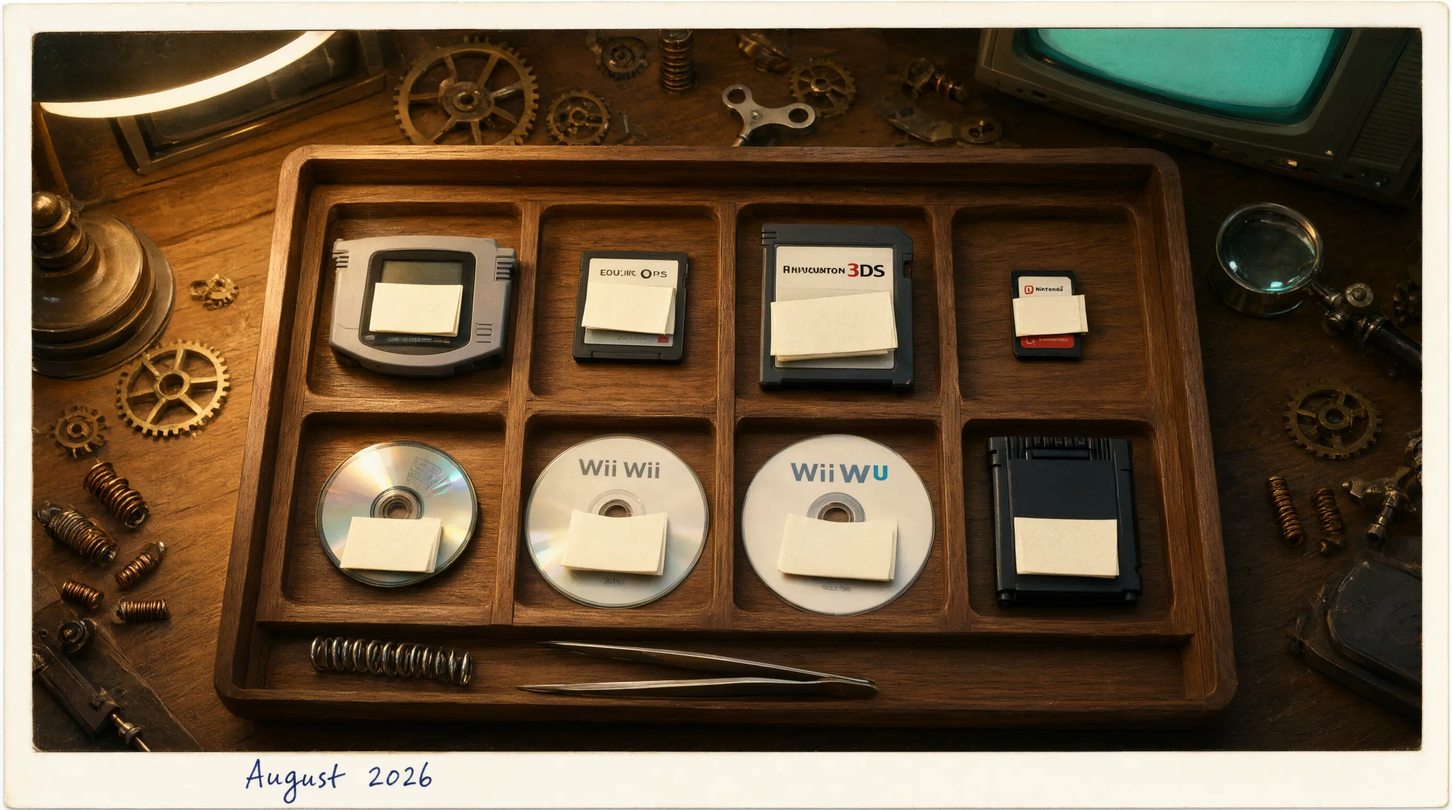
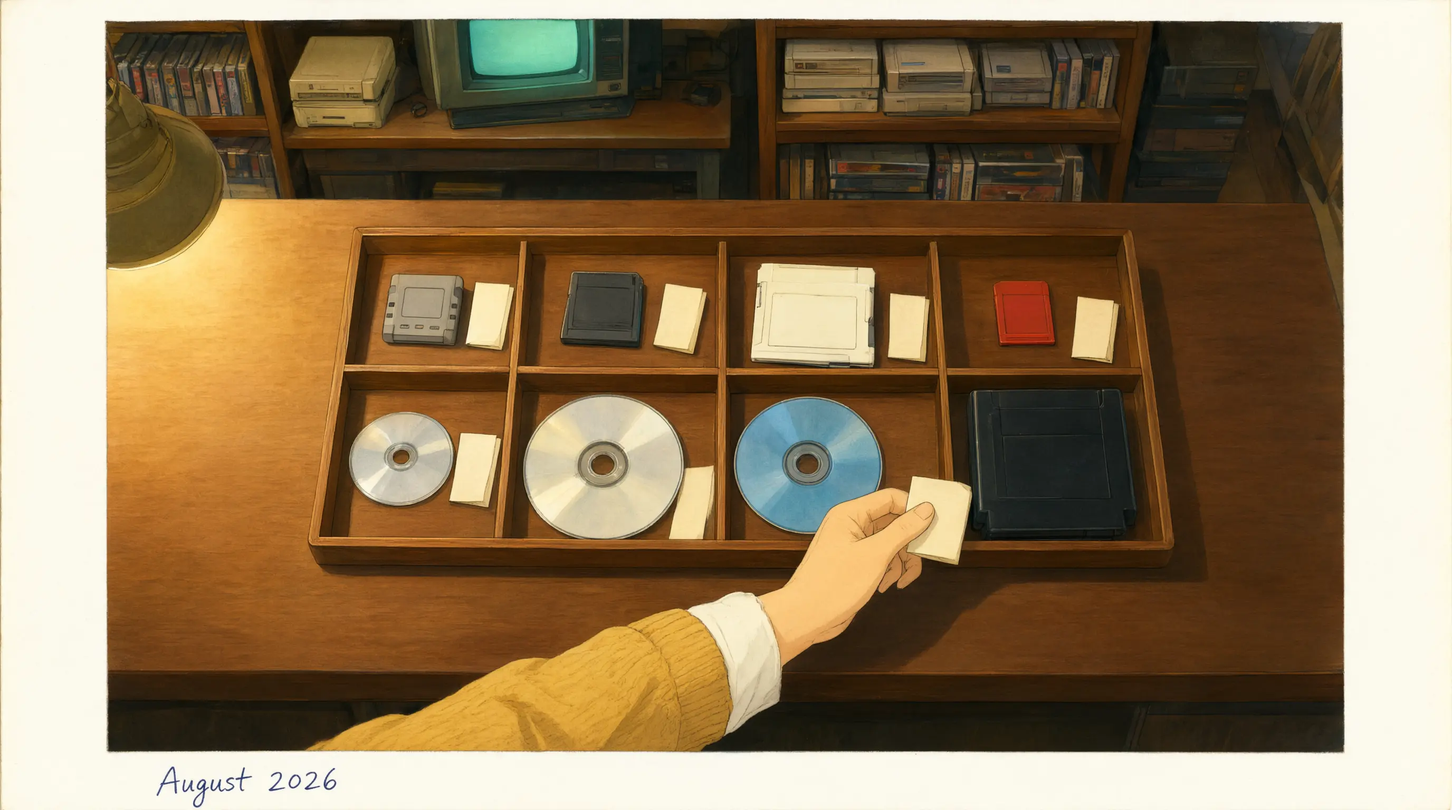
entry3

diff --git a/i18n/ru/docusaurus-plugin-content-blog/2026-08-30-entry-3-tests-head-for-consoles/index.md b/i18n/ru/docusaurus-plugin-content-blog/2026-08-30-entry-3-tests-head-for-consoles/index.md
@@ -5,14 +5,14 @@ authors: [dmitry]
 tags: [cpp, ci, cmake, testing, platforms, gba, md, gamecube]
 date: 2026-08-30
 description: >
-  Третья запись журнала мастерской. У движка появился свой раннер тестов,
-  тестовый ROM впервые прошёл под эмулятором GBA, а консольный сэмпл
-  собрался на восьми приставках.
+  Третья запись журнала ретро-лавки. У движка появился свой раннер тестов,
+  тестовый ROM впервые отработал под эмулятором GBA, а консольный сэмпл
+  собрался под восемь приставок.
 image: /img/blog/2026-08-30-1.webp
 sidebar_position: 1
 ---
 
-За две недели я снял с полки восемь приставок, по одной на пул-реквест. Я пишу движок ToyGine2 для небольших игр, которые должны запускаться и на современных машинах, и на приставках с этой полки. В этом цикле у движка появился свой раннер тестов, а у каждой из восьми приставок — собранный в CI образ.
+За две недели я снял с полки восемь приставок, по одной на пул-реквест. Я пишу ToyGine2, движок для небольших игр, которые должны запускаться и на современных машинах, и на ретро-технике. В этом цикле у движка появился свой раннер тестов, а у каждой из восьми приставок — собранный в CI образ.
 
 <!-- truncate -->
 
@@ -20,22 +20,21 @@ sidebar_position: 1
 
 ## Коротко {#short}
 
-Движок получил собственный раннер тестов. Он собирается там, где doctest не может, и выносит тот же вердикт. На десктопе тесты собираются под обоими раннерами сразу, а на GBA тестовый ROM гоняется в CI под mGBA. Консольный сэмпл собирается на восьми приставках, и для каждой в пул-реквесте лежит свой образ. Всё это вошло в версию 26.18.0: [релиз на GitHub](https://github.com/ToymanInteractive/toygine2/releases/tag/26.18.0).
+Движок получил собственный раннер тестов. Он собирается там, где doctest не может, и выносит тот же вердикт. На десктопе тесты собираются под обоими раннерами сразу, а на GBA тестовый ROM гоняется в CI под mGBA. Консольный сэмпл собирается под восемь приставок, и для каждой в пул-реквесте есть свой образ. Всё это вошло в версию 26.18.0. [Релиз лежит на GitHub](https://github.com/ToymanInteractive/toygine2/releases/tag/26.18.0).
 
-- Артефакты закрытого пул-реквеста удаляются сразу, а не через семь дней хранения. Имя ветки вида `main&event=push` больше не подменяет параметры запроса к API.
-- Появился Docker-образ тулчейна Wii U. CI теперь сверяет тег базового образа в `FROM` с меткой образа: Dependabot поднял тег в `Dockerfile.gba`, а метку не тронул.
+- Артефакты закрытого пул-реквеста удаляются сразу, а не через семь дней хранения.
+- Появился Docker-образ тулчейна Wii U. CI теперь сверяет тег базового образа в `FROM` с меткой образа: Dependabot поднял тег в `Dockerfile.gba`, а метку не тронул.
 - Wii U не появлялась в списке платформ: модуль поиска отдавал `DEVKITPRO_WIIU_FOUND`, а проверка ждала `DEVKITPRO_WII_U_FOUND`.
-- Почти каждый пул-реквест приносил по флагу MSVC: `/GF`, `/GL`, `/GR-`, `/GS`, `/guard:cf`, `/Gw`, `/Gy`, `/RTC1` и ещё несколько.
-- В CI стоит clang-format 23, и он больше не выносит «свой» заголовок над стандартными.
-- Скрипт в CI ловит тесты модулей, которые лезут во внутренности раннера.
+- Почти каждый пул-реквест приносил по флагу MSVC, от `/GF` до `/RTC1`.
+- Скрипт в CI ловит модульные тесты, которые лезут во внутренности раннера.
 
 ## Свой раннер тестов {#runner}
 
-На десктопе модульные тесты движка гоняет doctest. На приставках тестового бинаря не было совсем: тестовые файлы под их тулчейнами даже не компилировались, и `static_assert` в них молчали.
+На десктопе модульные тесты движка гоняет doctest. На приставках тестового бинаря не было совсем: тестовые файлы под их тулчейнами даже не компилировались, и `static_assert` в них молчали.
 
-Сначала я проверил, нельзя ли обойтись doctest. Под devkitARM для GBA и 3DS он собрался и слинковался в ROM. Под ClownMDSDK для Mega Drive не собрался: это freestanding-окружение, без `<signal.h>`, `<ctime>` и прочего, на что doctest рассчитывает. Формально свой раннер был нужен одной Mega Drive, но я стал писать его для всех приставок. Иначе каждое изменение в тестах начиналось бы с вопроса, какой раннер стоит на какой платформе. Ограничения задала самая узкая цель: ни одной аллокации в куче и из стандартной библиотеки только шесть заголовков, которые есть в ClownMDSDK.
+Сначала я проверил, нельзя ли обойтись doctest. Под devkitARM для GBA и 3DS он собрался и слинковался в ROM. Под ClownMDSDK для Mega Drive не собрался: это freestanding-окружение, без `<signal.h>`, `<ctime>` и прочего, на что doctest рассчитывает. Формально свой раннер был нужен одной Mega Drive, но я стал писать его для всех приставок, иначе каждое изменение в тестах начиналось бы с вопроса, какой раннер стоит на какой платформе. Ограничения задала самая узкая цель: ни одной аллокации в куче и только шесть заголовков стандартной библиотеки, которые есть в ClownMDSDK.
 
-Главное правило раннера — один и тот же тест даёт одинаковый вердикт под doctest и под своим раннером. На этом правиле я споткнулся почти сразу. Сравнение с допуском `Approx` я написал по памяти, и ревью нашло расхождение с исходником doctest 2.5.3:
+Главное правило раннера: один и тот же тест даёт одинаковый вердикт под doctest и под встроенным раннером. Об это правило я споткнулся почти сразу. Сравнение с допуском `Approx` я написал по памяти, и ревью нашло расхождение с исходником doctest 2.5.3:
 
 ```cpp
 // было
@@ -46,41 +45,32 @@ difference < epsilon * (1 + larger)
 
 Формулы похожи, но около единицы при разнице в полтора эпсилона doctest говорит «равно», а моя говорила «нет». Ни один существующий тест вердикт не поменял, так что расхождение дожило бы до первого теста у самого порога. Теперь формулу сторожит проверка на этапе компиляции.
 
-Ревью предлагало и другое: считать всё в `double`, как doctest. Это я отклонил после замера. У Mega Drive процессор 68000 без FPU, и одно сравнение двух `float` выросло бы со 168 до 248 байт кода. Платила бы ровно та приставка, ради которой раннер и писался, поэтому узкое расхождение в точности я не устранил, а описал в документации.
+Ревью предлагало и другое: считать всё в `double`, как doctest. Это я отклонил после замера. У Mega Drive процессор 68000 без FPU, и код одного сравнения двух `float` вырос бы со 168 до 248 байт. Платила бы ровно та приставка, ради которой раннер и писался, поэтому узкое расхождение в точности я описал в документации, а не устранил.
 
-Чтобы правило не держалось на честном слове, на десктопе один и тот же набор тестов собирается дважды: целью `toygine-units` под doctest и целью `toygine-units-builtin` под своим раннером. На первом переведённом файле встроенный раннер отчитался `1..7` и `passed=18`, doctest — `test cases: 7 | assertions: 18`. Подмена `0xFF` на `0xFE` в одной проверке уронила обе цели. Так проверяют новую шестерню взамен старой: насаживают обе на одну ось и смотрят, совпадают ли зубья.
-
-```mermaid
-flowchart LR
-  T["bitwise_enum.test.cpp"] --> S["toy_test.hpp"]
-  S --> D["toygine-units<br/>doctest"]
-  S --> B["toygine-units-builtin<br/>свой раннер"]
-  D --> V{"вердикты<br/>совпали?"}
-  B --> V
-```
+Чтобы правило не держалось на честном слове, на десктопе один и тот же набор тестов собирается дважды: целью `toygine-units` под doctest и целью `toygine-units-builtin` под встроенным раннером. На первом переведённом файле встроенный раннер отчитался `1..7` и `passed=18`, doctest — `test cases: 7 | assertions: 18`. Подмена `0xFF` на `0xFE` в одной проверке уронила обе цели.
 
 <details>
 <summary>Тест субкейсов, который дважды проходил с багом</summary>
 
-Кейс `each_subcase_runs_exactly_once` проверяет, что раннер заходит в каждый субкейс ровно один раз. Я переписывал его трижды. Первая форма держалась на глобальных счётчиках, а две следующие проходили с подсаженным багом. Вторая сверяла счётчики контекста, и раннер, который на всех прогонах входил в первый субкейс, давал те же цифры. Третья запоминала за прогон только последнее имя субкейса, и прогон, зашедший в первый и во второй субкейс, выглядел как зашедший только во второй. Сработала четвёртая: на каждый прогон заводится запись с именем и счётчиком входов.
+Кейс `each_subcase_runs_exactly_once` проверяет, что раннер заходит в каждый субкейс ровно один раз. Я переписывал его трижды. Первая форма держалась на глобальных счётчиках, а две следующие проходили с подсаженным багом: вторая сверяла счётчики контекста, третья запоминала за прогон только последнее имя субкейса. Сработала четвёртая: на каждый прогон заводится запись с именем и счётчиком входов.
 
 </details>
 
-Зелёный прогон ничего не говорит о том, ловит ли тест хоть что-то. Тесты раннера я теперь проверяю подсаженными багами до того, как считать работу законченной. Для того, кто пишет игру на движке, всё сводится к одной строке: тест подключает `toy_test.hpp` вместо doctest, и тот же файл идёт на десктопе и на приставке с одинаковым вердиктом.
+Зелёный прогон ничего не говорит о том, ловит ли тест хоть что-то, поэтому тесты раннера я проверяю подсаженными багами. Для того, кто пишет игру на движке, всё сводится к одной строке: тест подключает `toy_test.hpp` вместо doctest, и тот же файл идёт на десктопе и на приставке с одинаковым вердиктом.
 
-![Старая и новая латунные шестерни на одной оси зуб в зуб под часовой лупой, в стороне стоит Sega Mega Drive](/img/blog/2026-08-30-1.webp)
+![Два ЭЛТ-экрана на ремонтном столе показывают одинаковый узор: один подключён к компьютеру, другой к 16-битной приставке](/img/blog/2026-08-30-1.webp)
 
 ## Тесты доезжают до GBA {#gba}
 
 Когда тесты стали собираться дважды, CI показал странное: локально 64 теста, в CI 57, а встроенный раннер печатал `1..0`, ноль кейсов. Упало при этом только покрытие, с ошибкой `lcov: ERROR: (empty) no valid records found in tracefile`.
 
-Виноват был фильтр в CMake. Файлы самого раннера исключались из тестов модулей регуляркой `/runner/` по абсолютным путям. У меня проект лежит в `/Users/…`, а GitHub выкачивает код в `/home/runner/work/…`, где `/runner/` есть в пути каждого файла. Я воспроизвёл это на копии дерева под таким же путём и перевёл поиск файлов на относительные пути с якорем `^`. Совет со стороны добавить к вызову lcov флаг `--ignore-errors empty` я отклонил: пустой отчёт покрытия был единственным, что заметило пропажу тестов.
+Виноват был фильтр в CMake. Файлы самого раннера исключались из тестов модулей регуляркой `/runner/` по абсолютным путям. У меня проект лежит в `/Users/…`, а GitHub выкачивает код в `/home/runner/work/…`, где `/runner/` есть в пути каждого файла. Я воспроизвёл это на копии дерева под таким же путём и перевёл поиск файлов на относительные пути с якорем `^`. Совет добавить к вызову lcov флаг `--ignore-errors empty` я отклонил: пустой отчёт покрытия был единственным, что заметило пропажу тестов.
 
-Потом тестовый бинарь надо было собрать под приставки, и общий `main` из плана не пережил Mega Drive. Скрипт линковщика картриджа объявляет точку входа `_EntryPoint`. C-рантайма, который вызвал бы `main`, там нет, и бинарь собирался без стартового адреса. Точка входа переехала в платформенные файлы: девять штук в `tests/runner/platforms/`, по одному на платформу. Нужный файл выбирает CMake. На незнакомой платформе конфигурация падает, а не молча собирает десктопный вариант.
+Потом тестовый бинарь надо было собрать под приставки, и общий `main` не пережил Mega Drive. Скрипт линковщика картриджа объявляет точку входа `_EntryPoint`. C-рантайма, который вызвал бы `main`, там нет, и бинарь собирался без стартового адреса. Точка входа переехала в отдельные файлы, по одному на платформу, а нужный выбирает CMake. На незнакомой платформе конфигурация падает, а не молча собирает десктопный вариант.
 
-Первой приставкой, где тесты запустились, стала GBA. Для прогона в CI я успел спроектировать шаг, который собирает `mgba-rom-test` из исходников mGBA. Потом заглянул в образ тулчейна GBA и нашёл там `mgba-headless` — тот же инструмент под другим именем. Шаг я выбросил целиком.
+Первой приставкой, где тесты запустились, стала GBA. Для прогона в CI я успел спроектировать шаг, который собирает `mgba-rom-test` из исходников mGBA. Потом заглянул в образ тулчейна GBA и нашёл там `mgba-headless`, тот же инструмент под другим именем. Шаг я выбросил целиком.
 
-Оставалось научить ROM разговаривать с эмулятором и не сломать его на железе. При старте ROM пишет `0xC0DE` в отладочный регистр по адресу `0x04FFF780`: mGBA отвечает `0x1DEA`, железо молчит. Под эмулятором каждая строка отчёта целиком уходит ещё и в отладочный лог, а на экран в 30 колонок попадает обрезанной. В конце ROM делает системный вызов Stop, `swi 3`, с вердиктом в регистре `r0`, и `mgba-headless -S 3 -R r0` превращает вердикт в код выхода процесса. Вызов пришлось написать на ассемблере: `Stop()` из libgba затирает `r0` по дороге.
+Оставалось научить ROM разговаривать с эмулятором и не сломать его на железе. При старте ROM пишет `0xC0DE` в отладочный регистр по адресу `0x04FFF780`: mGBA отвечает `0x1DEA`, железо молчит. Тем же приёмом программа на Спектруме узнаёт, подключён ли джойстик Kempston: читает его порт, и интерфейс отвечает осмысленным байтом, а без него с шины приходит случайное значение. Под эмулятором каждая строка отчёта уходит ещё и в отладочный лог целиком, а на экран в 30 колонок попадает обрезанной. В конце ROM делает системный вызов Stop, `swi 3`, с вердиктом в регистре `r0`, и `mgba-headless -S 3 -R r0` превращает вердикт в код выхода процесса. Вызов пришлось написать на ассемблере: `Stop()` из libgba затирает `r0` по дороге.
 
 ```cpp
 asm volatile("mov r0, %0\n\tswi 3" : : "r"(code) : "r0", "r1", "r2", "r3", "memory");
@@ -88,34 +78,34 @@ asm volatile("mov r0, %0\n\tswi 3" : : "r"(code) : "r0", "r1", "r2", "r3", "memo
 
 Запуск я отдал CTest, а не шагу CI, поэтому шаг `Unit testing` одинаков для всех платформ. Зелёный прогон — десять строк отчёта и код 0. Сломанная проверка даёт `not ok 7` с файлом, строкой и выражением, а код выхода — 1.
 
-Сигнал тревоги бывает единственным свидетелем, и прежде чем его глушить, стоит понять, о чём он: пустой отчёт lcov выглядел как поломка покрытия, а был поломкой сборки тестов. Для того, кто пишет игру, это значит вот что: каждый пул-реквест прогоняет тесты движка на эмулированной GBA, а тот же ROM на флеш-картридже покажет отчёт на экране приставки.
+Пустой отчёт lcov выглядел как поломка покрытия, а был поломкой сборки тестов. Прежде чем глушить такой сигнал, стоит понять, о чём он. Для того, кто пишет игру, это значит, что каждый пул-реквест прогоняет тесты движка на эмулированной GBA, а тот же ROM на флеш-картридже покажет отчёт на экране приставки.
 
-![Game Boy Advance с десятью обрезанными строками на экране, рядом бумажная лента с теми же строками целиком](/img/blog/2026-08-30-2.webp)
+![32-битная портативная приставка с обрезанными строками на экране, а рядом — бумажная лента с теми же строками целиком](/img/blog/2026-08-30-2.webp)
 
 ## Сэмпл на восьми приставках {#samples}
 
-В начале цикла артефакт в пул-реквесте был только у девяти десктопных сборок: скачал архив, запустил консольный сэмпл. Приставки собирались, но потрогать результат было нельзя. За цикл я снимал с полки по приставке на пул-реквест: GBA, NDS, 3DS, Switch, GameCube, Wii, Wii U и Mega Drive.
+В начале цикла артефакт в пул-реквесте был только у девяти десктопных сборок. Приставки собирались, но потрогать результат было нельзя. За цикл я снимал с полки по приставке на пул-реквест: GBA, NDS, 3DS, Switch, GameCube, Wii, Wii U и Mega Drive.
 
-Сэмпл маленький: он поднимает текстовую консоль SDK, печатает строку и ждёт в главном цикле. Цикл у каждой приставки свой. GBA выходить некуда, и она вечно ждёт кадрового прерывания, а NDS крутится в `pmMainLoop()`, пока система не попросит завершиться. Сборочные ветки зеркальные: функция SDK превращает ELF в образ приставки, а `install` кладёт его в `bin`. На выходе `.gba`, `.nds`, `.3dsx`, `.nro`, `.dol` для GameCube и Wii, `.rpx` для Wii U и `.bin` для Mega Drive.
+Сэмпл маленький: он поднимает текстовую консоль SDK, печатает строку и ждёт в главном цикле. Цикл у каждой приставки свой. GBA выходить некуда, и она вечно ждёт кадрового прерывания, а NDS крутится в `pmMainLoop()`, пока система не попросит завершиться. Функция SDK превращает ELF в образ приставки, а `install` кладёт его в `bin`. На выходе — `.gba`, `.nds`, `.3dsx`, `.nro`, `.dol` для GameCube и Wii, `.rpx` для Wii U и `.bin` для Mega Drive.
 
-Первым всплыл архив в архиве. `actions/upload-artifact` всегда пакует то, что ему дали, а давали ему готовый zip от CPack. Параметр `archive: false` выкладывает файл как есть и берёт имя артефакта из имени файла. Я ожидал, что после этого поле `artifact_id` в матрице станет лишним, а оно стало важнее. Без него CPack называет пакет по системе и процессору, и Xcode arm64 с Ninja arm64 оба становятся `Darwin-arm64`. Два одинаковых имени в одном прогоне роняют загрузку.
+Первым всплыл архив в архиве. `actions/upload-artifact` всегда пакует то, что ему дали, а давали ему готовый zip от CPack. Параметр `archive: false` выкладывает файл как есть и берёт имя артефакта из имени файла. Я ожидал, что поле `artifact_id` в матрице станет лишним, а оно стало важнее. Без него CPack называет пакет по системе и процессору, и у сборок Xcode arm64 и Ninja arm64 одно имя, `Darwin-arm64`. Два одинаковых имени в одном прогоне роняют загрузку.
 
-Вторым был GameCube. Ветку сэмпла я закрыл макросом `__GAMECUBE__`, всё собралось без единого предупреждения, и только ревью заметило, что CMake-тулчейн devkitPro для libogc определяет `__gamecube__` строчными. Это единственная платформа devkitPro с таким регистром. `nm` по ELF это подтвердил: ни `VIDEO_Init`, ни `SYS_MainLoop` в нём не нашлось, а в `.dol` уехала десктопная ветка с `<iostream>`.
+Вторым был GameCube. Ветку сэмпла я закрыл макросом `__GAMECUBE__`, всё собралось без единого предупреждения, и только ревью заметило, что CMake-тулчейн devkitPro для libogc определяет `__gamecube__` строчными. `nm` по ELF это подтвердил: ни `VIDEO_Init`, ни `SYS_MainLoop` в нём не нашлось, а в `.dol` уехала десктопная ветка с `<iostream>`.
 
-Если выбор ветки держится на макросе, сборка без ошибок ничего не говорит о том, какой код в неё попал. Проверка символов заняла минуту, и выбор ветки я теперь проверяю по бинарю, а не по зелёной галочке. Для того, кто хочет запустить движок на своей приставке, в каждом пул-реквесте лежат 17 архивов, из них восемь с образом для приставки. Образ можно открыть в эмуляторе или залить на флеш-картридж.
+Если выбор ветки держится на макросе, сборка без ошибок ничего не говорит о том, какой код в неё попал. Проверка символов заняла минуту, и выбор ветки я теперь сверяю по бинарю. Для того, кто хочет запустить движок на своей приставке, в каждом пул-реквесте лежит 17 архивов, из них 8 с образом для приставки. Образ можно открыть в эмуляторе или залить на флеш-картридж.
 
-![Лоток из восьми ячеек, вид сверху: в каждой носитель своей приставки и одинаковый сложенный листок](/img/blog/2026-08-30-3.webp)
+![Лоток из восьми ячеек на прилавке: в каждой лежит носитель своей приставки, от крошечной карточки до большого чёрного картриджа](/img/blog/2026-08-30-3.webp)
 
 ## Цифры {#numbers}
 
-| Что мерил                                  | Было                         | Стало                                       |
-| ------------------------------------------ | ---------------------------- | ------------------------------------------- |
-| Тесты в десктопном наборе, 22 → 27 августа | 32                           | 64                                          |
-| Тесты в CI с фильтром `/runner/`           | 57, встроенный раннер `1..0` | 64, `1..7`                                  |
-| Проверка отчёта раннера                    | 1,02 с, три отдельных бинаря | 0,06 с, doctest-юнит                        |
-| Сравнение двух `float` на Mega Drive       | 168 байт кода                | 168 байт; вариант с `double` (248) отклонён |
-| Сборки с артефактом в пул-реквесте         | 9                            | 17                                          |
+| Что мерил                                     | Было                                                 | Стало                                            |
+| --------------------------------------------- | ---------------------------------------------------- | ------------------------------------------------ |
+| Тесты в десктопном наборе, с 22 по 27 августа | 32                                                   | 64                                               |
+| Тесты в CI с фильтром `/runner/`              | 57, встроенный раннер `1..0`                         | 64, `1..7`                                       |
+| Прогон набора тестов                          | 1,02 с, отчёт раннера проверяли три отдельных бинаря | 0,06 с, отчёт сверяет один тест под doctest      |
+| Сравнение двух `float` на Mega Drive          | 168 байт кода                                        | 168 байт; вариант с `double` (248 байт) отклонён |
+| Сборки с артефактом в пул-реквесте            | 9                                                    | 17                                               |
 
 ## Что дальше {#next}
 
-На очереди Mega Drive. Точка входа и вывод через отладочный регистр видеочипа у неё уже есть, осталось найти эмулятор, который запустится без окна и вернёт вердикт. За ней пойдут остальные шесть приставок по образцу GBA: ветка в `tests/CMakeLists.txt` и `run_test: "true"` в матрице CI.
+На очереди Mega Drive. Точка входа и вывод через отладочный регистр видеочипа у неё уже есть, осталось найти эмулятор, который запустится без окна и вернёт вердикт. За ней пойдут остальные шесть приставок по образцу GBA: ветка в `tests/CMakeLists.txt` и `run_test: "true"` в матрице CI.

diff --git a/blog/2026-08-30-entry-3-tests-head-for-consoles/index.md b/blog/2026-08-30-entry-3-tests-head-for-consoles/index.md
@@ -5,117 +5,107 @@ authors: [dmitry]
 tags: [cpp, ci, cmake, testing, platforms, gba, md, gamecube]
 date: 2026-08-30
 description: >
-  The third entry in the workshop journal. The engine got a test runner of
-  its own, a test ROM passed under a GBA emulator for the first time, and
-  the console sample now builds for eight consoles.
+  The third entry in the retro shop journal. The engine got its own test
+  runner, a test ROM ran under a GBA emulator for the first time, and the
+  console sample built for eight consoles.
 image: /img/blog/2026-08-30-1.webp
 sidebar_position: 1
 ---
 
-Over two weeks I took eight consoles down from the shelf, one per pull request. I'm writing ToyGine2, an engine for small games that should run on modern machines and on the consoles from that shelf. This cycle the engine got a test runner of its own, and each of the eight consoles got an image built in CI.
+In two weeks I took eight consoles down from the shelf, one per pull request. I'm writing ToyGine2, an engine for small games that should run on modern machines and on retro hardware. This cycle the engine got its own test runner, and each of the eight consoles got an image built in CI.
 
 <!-- truncate -->
 
-[In short](#short) · [A test runner of my own](#runner) · [Tests reach the GBA](#gba) · [One sample, eight consoles](#samples) · [Numbers](#numbers) · [What's next](#next)
+[In short](#short) · [A test runner of my own](#runner) · [Tests make it to the GBA](#gba) · [The sample on eight consoles](#samples) · [Numbers](#numbers) · [What's next](#next)
 
 ## In short {#short}
 
-The engine has its own test runner now. It builds where doctest can't, and it reaches the same verdict. On desktop the tests are built under both runners at once, and on the GBA the test ROM runs in CI under mGBA. The console sample builds for eight consoles, and each one gets its own image on the pull request. All of it went into 26.18.0, and [the release is on GitHub](https://github.com/ToymanInteractive/toygine2/releases/tag/26.18.0).
+The engine got a test runner of its own. It builds where doctest can't and reaches the same verdict. On desktop the tests build under both runners at once, and on the GBA the test ROM runs in CI under mGBA. The console sample builds for eight consoles, and each has its own image in the pull request. All of this went into version 26.18.0, and [the release is on GitHub](https://github.com/ToymanInteractive/toygine2/releases/tag/26.18.0).
 
-- Artifacts of a closed pull request are deleted right away instead of after seven days. A branch named something like `main&event=push` can no longer rewrite the API query parameters.
-- There is a Docker toolchain image for the Wii U. CI now checks that the base image tag in `FROM` matches the image label: Dependabot had bumped the tag in `Dockerfile.gba` and left the label alone.
-- The Wii U never showed up in the platform list. The find module set `DEVKITPRO_WIIU_FOUND`, and the check looked for `DEVKITPRO_WII_U_FOUND`.
-- Almost every pull request added one MSVC flag: `/GF`, `/GL`, `/GR-`, `/GS`, `/guard:cf`, `/Gw`, `/Gy`, `/RTC1` and a few more.
-- CI runs clang-format 23, and it no longer lifts a file's "own" header above the standard ones.
-- A script in CI catches module tests that reach into the runner's internals.
+- Artifacts of a closed pull request are deleted right away instead of after seven days of retention.
+- A Wii U toolchain Docker image appeared. CI now checks the base image tag in `FROM` against the image label: Dependabot had bumped the tag in `Dockerfile.gba` and left the label alone.
+- The Wii U didn't show up in the platform list: the find module set `DEVKITPRO_WIIU_FOUND`, and the check expected `DEVKITPRO_WII_U_FOUND`.
+- Nearly every pull request brought an MSVC flag, from `/GF` to `/RTC1`.
+- A CI script catches module tests that reach into the runner's internals.
 
 ## A test runner of my own {#runner}
 
-On desktop the engine's unit tests run under doctest. On the consoles there was no test binary at all. The test files didn't even compile with their toolchains, so the `static_assert`s in them never fired there.
+On desktop, doctest runs the engine's unit tests. On the consoles there was no test binary at all: the test files didn't even compile under their toolchains, and the `static_assert`s in them never fired.
 
-First I checked whether doctest would do. With devkitARM for the GBA and 3DS it built and linked into a ROM. With ClownMDSDK for the Mega Drive it didn't: that's a freestanding environment, without `<signal.h>`, `<ctime>` and the rest of what doctest expects. Strictly, only the Mega Drive needed a runner of its own, but I wrote it for every console. Otherwise every change to the tests would start with the question of which runner sits on which platform. The narrowest target set the limits: no heap allocations, and from the standard library only the six headers ClownMDSDK has.
+First I checked whether doctest would do. Under devkitARM for the GBA and 3DS it built and linked into a ROM. Under ClownMDSDK for the Mega Drive it didn't: that's a freestanding environment, without `<signal.h>`, `<ctime>` and the rest of what doctest relies on. Strictly speaking only the Mega Drive needed a runner of its own, but I wrote it for all consoles, or else every change to the tests would start with the question of which runner sits on which platform. The narrowest target set the limits: not a single heap allocation, and only the six standard library headers that ClownMDSDK has.
 
-The runner's main rule is that the same test reaches the same verdict under doctest and under it. I tripped over that rule almost at once. I'd written `Approx`, the comparison with a tolerance, from memory, and review found it didn't match the doctest 2.5.3 source:
+The runner's main rule: the same test reaches the same verdict under doctest and under the built-in runner. I tripped over that rule almost at once. I had written the `Approx` tolerance comparison from memory, and a review found it differed from the doctest 2.5.3 source:
 
 ```cpp
 // before
 difference <= epsilon * max(1.0, larger)
-// after, word for word as in doctest
+// after, exactly as in doctest
 difference < epsilon * (1 + larger)
 ```
 
-The two look alike, but near 1.0, at a difference of one and a half epsilons, doctest says "equal" and mine said "not equal". No existing test changed its verdict, so the mismatch would have lived until the first test right at the threshold. A compile-time check now guards the formula.
+The formulas look alike, but near one, with a difference of one and a half epsilons, doctest says "equal" and mine said "no". No existing test changed its verdict, so the mismatch would have lived until the first test right at the threshold. Now a compile-time check guards the formula.
 
-Review also suggested going the other way and computing everything in `double`, as doctest does. I measured it and said no. The Mega Drive's 68000 has no FPU, and a single comparison of two `float`s would grow from 168 to 248 bytes of code. The cost would land on exactly the console the runner was written for, so I left that narrow precision gap in place and documented it.
+The review also suggested computing everything in `double`, as doctest does. I turned that down after measuring. The Mega Drive's 68000 has no FPU, and a single comparison of two `float`s would have grown from 168 to 248 bytes of code. The cost would have landed on exactly the console the runner was written for, so I documented the narrow precision difference instead of removing it.
 
-So the rule doesn't rest on my word, the desktop build compiles the same test set twice: as `toygine-units` under doctest and as `toygine-units-builtin` under my runner. On the first test file I moved over, the built-in runner reported `1..7` and `passed=18`, and doctest reported `test cases: 7 | assertions: 18`. Changing `0xFF` to `0xFE` in one check broke both targets. It's how you test a new gear against the old one: put both on the same arbor and see whether the teeth line up.
-
-```mermaid
-flowchart LR
-  T["bitwise_enum.test.cpp"] --> S["toy_test.hpp"]
-  S --> D["toygine-units<br/>doctest"]
-  S --> B["toygine-units-builtin<br/>own runner"]
-  D --> V{"same<br/>verdict?"}
-  B --> V
-```
+To keep the rule from resting on good faith, the same test set builds twice on desktop: as `toygine-units` under doctest and as `toygine-units-builtin` under the built-in runner. On the first converted file the built-in runner reported `1..7` and `passed=18`, doctest `test cases: 7 | assertions: 18`. Changing `0xFF` to `0xFE` in one check broke both targets.
 
 <details>
-<summary>The subcase test that passed with a bug twice</summary>
+<summary>The subcase test that passed twice with a bug in place</summary>
 
-The case `each_subcase_runs_exactly_once` checks that the runner enters each subcase exactly once. I rewrote it three times. The first version leaned on global counters, and the next two passed with a planted bug. The second compared the context counters, and a runner that entered the first subcase on every pass produced the same numbers. The third kept only the last subcase name per pass, so a pass that entered both the first and the second subcase looked as if it had entered only the second. The fourth version worked: every pass gets a record with a name and an entry count.
+The `each_subcase_runs_exactly_once` case checks that the runner enters every subcase exactly once. I rewrote it three times. The first version relied on global counters, and the next two passed with a planted bug: the second compared the context counters, the third remembered only the last subcase name per run. The fourth worked: every run gets a record with a name and an entry counter.
 
 </details>
 
-A green run tells you nothing about whether a test catches anything. I now check the runner's tests with planted bugs before I call the work done. For someone writing a game on the engine it comes down to one line: a test includes `toy_test.hpp` instead of doctest, and the same file runs on desktop and on a console with the same verdict.
+A green run says nothing about whether a test catches anything, so I check the runner's tests with planted bugs. For someone writing a game on the engine, it all comes down to one line: a test includes `toy_test.hpp` instead of doctest, and the same file runs on desktop and on a console with the same verdict.
 
-![An old and a new brass gear on one arbor, tooth for tooth, under a jeweller's loupe, with a Sega Mega Drive to the side](/img/blog/2026-08-30-1.webp)
+![Two CRT screens on the repair bench show the same pattern, one wired to a desktop computer and the other to a 16-bit console](/img/blog/2026-08-30-1.webp)
 
-## Tests reach the GBA {#gba}
+## Tests make it to the GBA {#gba}
 
-Once the tests were built twice, CI showed something odd. Locally there were 64 tests, in CI there were 57, and the built-in runner printed `1..0`, zero cases. The only thing that failed was coverage, with `lcov: ERROR: (empty) no valid records found in tracefile`.
+Once the tests built twice, CI showed something odd: 64 tests locally, 57 in CI, and the built-in runner printed `1..0`, zero cases. The only thing that failed was coverage, with `lcov: ERROR: (empty) no valid records found in tracefile`.
 
-A CMake filter was to blame. The runner's own files were kept out of the module tests by matching `/runner/` against absolute paths. My checkout lives under `/Users/…`, but GitHub checks the code out into `/home/runner/work/…`, where every file's path contains `/runner/`. I reproduced it on a copy of the tree under the same kind of path and switched the file search to relative paths anchored with `^`. Someone suggested adding lcov's `--ignore-errors empty`. I turned that down: the empty coverage report was the only thing that had noticed the tests were gone.
+A filter in CMake was to blame. The runner's own files were excluded from the module tests by a `/runner/` regex over absolute paths. My project lives under `/Users/…`, while GitHub checks the code out into `/home/runner/work/…`, where `/runner/` is in the path of every file. I reproduced it on a copy of the tree under the same kind of path and switched the file search to relative paths anchored with `^`. I declined the advice to add `--ignore-errors empty` to the lcov call: the empty coverage report was the only thing that noticed the tests had gone missing.
 
-Next the test binary had to build for the consoles, and the plan's shared `main` didn't survive the Mega Drive. The cartridge linker script declares `_EntryPoint` as the entry point, there's no C runtime to call `main`, and the binary came out with no start address. The entry point moved into per-platform files, nine of them in `tests/runner/platforms/`, one per platform. CMake picks the right one, and on a platform it doesn't know, configuration fails instead of silently building the desktop version.
+Then the test binary had to build for the consoles, and the shared `main` didn't survive the Mega Drive. The cartridge linker script declares `_EntryPoint` as the entry point. There's no C runtime there to call `main`, and the binary built without a start address. The entry point moved into separate files, one per platform, and CMake picks the right one. On an unknown platform configuration fails instead of falling back to the desktop variant without a word.
 
-The GBA was the first console where the tests actually ran. For CI I'd already designed a step that builds `mgba-rom-test` from the mGBA sources. Then I looked inside the GBA toolchain image and found `mgba-headless` there, the same tool under another name. I threw the whole step away.
+The GBA was the first console where the tests ran. For the CI run I had already designed a step that builds `mgba-rom-test` from the mGBA sources. Then I looked inside the GBA toolchain image and found `mgba-headless` there, the same tool under another name. I threw the step out entirely.
 
-What remained was teaching the ROM to talk to the emulator without breaking it on hardware. At startup the ROM writes `0xC0DE` to the debug register at `0x04FFF780`: mGBA answers `0x1DEA`, hardware stays silent. Under the emulator every report line also goes to the debug log in full, while the 30-column screen gets it cut short. At the end the ROM makes the Stop system call, `swi 3`, with the verdict in `r0`, and `mgba-headless -S 3 -R r0` turns it into the process exit code. I had to write that call in assembly, because libgba's `Stop()` overwrites `r0` on the way.
+What remained was teaching the ROM to talk to the emulator without breaking it on hardware. At startup the ROM writes `0xC0DE` to the debug register at `0x04FFF780`: mGBA answers `0x1DEA`, and hardware stays silent. A Spectrum program finds out whether a Kempston joystick is attached the same way: it reads the joystick port, the interface answers with a meaningful byte, and without it whatever happens to be on the bus comes back. Under the emulator every report line also goes to the debug log in full, while the 30-column screen gets it cut short. At the end the ROM makes the Stop system call, `swi 3`, with the verdict in register `r0`, and `mgba-headless -S 3 -R r0` turns the verdict into the process exit code. I had to write the call in assembly: `Stop()` from libgba clobbers `r0` on the way.
 
 ```cpp
 asm volatile("mov r0, %0\n\tswi 3" : : "r"(code) : "r0", "r1", "r2", "r3", "memory");
 ```
 
-I gave the run to CTest rather than to a CI step, so the `Unit testing` step is the same on every platform. A green run is ten report lines and exit code 0. A broken check gives `not ok 7` with the file, line and expression, and exit code 1.
+I gave the run to CTest rather than a CI step, so the `Unit testing` step is the same for every platform. A green run is ten report lines and code 0. A broken check gives `not ok 7` with the file, line and expression, and exit code 1.
 
-The empty lcov report looked like broken coverage and was really a broken test build. Had I silenced it, CI would have stayed green while building zero module tests. For someone writing a game, this means every pull request runs the engine's tests on an emulated GBA, and the same ROM on a flash cart shows its report on the console's screen.
+The empty lcov report looked like a coverage failure and was really a test build failure. Before you silence a signal like that, it pays to find out what it's about. For someone writing a game, this means every pull request runs the engine's tests on an emulated GBA, and the same ROM on a flash cartridge will show the report on the console's screen.
 
-![A Game Boy Advance showing ten rows cut off at the screen edge, beside a paper tape carrying the same rows in full](/img/blog/2026-08-30-2.webp)
+![A 32-bit handheld console with truncated lines on its screen, beside it a paper tape carrying the same lines in full](/img/blog/2026-08-30-2.webp)
 
-## One sample, eight consoles {#samples}
+## The sample on eight consoles {#samples}
 
-At the start of the cycle only the nine desktop builds had an artifact on a pull request: download the archive, run the console sample. The consoles built, but there was nothing to hold. Over the cycle I took down one console per pull request: GBA, NDS, 3DS, Switch, GameCube, Wii, Wii U and Mega Drive.
+At the start of the cycle only the nine desktop builds had an artifact in the pull request. The consoles built, but there was nothing to touch. Over the cycle I took one console off the shelf per pull request: GBA, NDS, 3DS, Switch, GameCube, Wii, Wii U and Mega Drive.
 
-The sample is small. It brings up the SDK's text console, prints a line and waits in the main loop. Each console has its own loop. The GBA has nowhere to exit to, so it waits for the vertical blank forever, and the NDS spins in `pmMainLoop()` until the system asks it to quit. The build branches mirror each other: an SDK function turns the ELF into a console image, and `install` puts it in `bin`. Out come `.gba`, `.nds`, `.3dsx`, `.nro`, `.dol` for GameCube and Wii, `.rpx` for the Wii U and `.bin` for the Mega Drive.
+The sample is small: it brings up the SDK's text console, prints a line and waits in the main loop. Each console has its own loop. The GBA has nowhere to exit to, so it waits for the vertical blank interrupt forever, while the NDS spins in `pmMainLoop()` until the system asks it to quit. An SDK function turns the ELF into a console image, and `install` puts it into `bin`. Out come `.gba`, `.nds`, `.3dsx`, `.nro`, `.dol` for the GameCube and Wii, `.rpx` for the Wii U and `.bin` for the Mega Drive.
 
-The first surprise was an archive inside an archive. `actions/upload-artifact` always zips whatever it gets, and it was getting a zip from CPack. The `archive: false` input uploads the file as is and names the artifact after the file. I expected the matrix's `artifact_id` field to become redundant after that, and it became more important instead. Without it CPack names the package after the system and processor, and Xcode arm64 and Ninja arm64 both turn into `Darwin-arm64`. Two identical names in one run break the upload.
+The first surprise was an archive inside an archive. `actions/upload-artifact` always packs what it's given, and it was being given a finished zip from CPack. `archive: false` uploads the file as is and takes the artifact name from the file name. I expected the `artifact_id` field in the matrix to become unnecessary, and it became more important. Without it CPack names the package after the system and processor, and the Xcode arm64 and Ninja arm64 builds get the same name, `Darwin-arm64`. Two identical names in one run break the upload.
 
-The second was the GameCube. I'd guarded the sample's branch with `__GAMECUBE__`, everything built without a single warning, and only review noticed that devkitPro's CMake toolchain for libogc defines `__gamecube__` in lowercase. It's the only devkitPro platform spelled that way. `nm` on the ELF confirmed it: no `VIDEO_Init`, no `SYS_MainLoop`, and the `.dol` had shipped the desktop branch with `<iostream>`.
+The second was the GameCube. I guarded the sample branch with the `__GAMECUBE__` macro, everything built without a single warning, and only the review noticed that devkitPro's CMake toolchain for libogc defines `__gamecube__` in lowercase. `nm` on the ELF confirmed it: neither `VIDEO_Init` nor `SYS_MainLoop` was in there, and the desktop branch with `<iostream>` had gone into the `.dol`.
 
-When a macro picks the branch, a clean build tells you nothing about which code went into it. Checking the symbols took a minute, and I now look in the binary for this kind of thing, because a green tick won't show it. For anyone who wants to see the engine on their own console, every pull request carries 17 archives, eight of them with a console image. You can open it in an emulator or put it on a flash cart.
+When branch selection rests on a macro, a clean build says nothing about which code ended up in it. Checking the symbols took a minute, and I now check branch selection against the binary. For anyone who wants to run the engine on their own console, every pull request carries 17 archives, eight of them with a console image. You can open the image in an emulator or flash it to a cartridge.
 
-![A tray of eight compartments seen from above, each with a different console's game medium and the same folded slip](/img/blog/2026-08-30-3.webp)
+![A tray of eight compartments on the counter, each holding the media of a different console, from a tiny card to a large black cartridge](/img/blog/2026-08-30-3.webp)
 
 ## Numbers {#numbers}
 
-| What I measured                          | Before                          | After                                          |
-| ---------------------------------------- | ------------------------------- | ---------------------------------------------- |
-| Tests in the desktop set, Aug 22 → 27    | 32                              | 64                                             |
-| Tests in CI with the `/runner/` filter   | 57, built-in runner `1..0`      | 64, `1..7`                                     |
-| Checking the runner's report             | 1.02 s, three separate binaries | 0.06 s, one doctest unit                       |
-| Comparing two `float`s on the Mega Drive | 168 bytes of code               | 168 bytes; the `double` version (248) declined |
-| Builds with a pull request artifact      | 9                               | 17                                             |
+| What I measured                            | Before                                                    | After                                                |
+| ------------------------------------------ | --------------------------------------------------------- | ---------------------------------------------------- |
+| Tests in the desktop set, Aug 22 to Aug 27 | 32                                                        | 64                                                   |
+| Tests in CI with the `/runner/` filter     | 57, built-in runner `1..0`                                | 64, `1..7`                                           |
+| Test suite run                             | 1.02 s, three separate binaries checked the runner report | 0.06 s, one doctest test checks the report           |
+| Comparing two `float`s on the Mega Drive   | 168 bytes of code                                         | 168 bytes; the `double` variant (248 bytes) declined |
+| Builds with a pull request artifact        | 9                                                         | 17                                                   |
 
 ## What's next {#next}
 
-The Mega Drive is next in line. It already has an entry point and output through the video chip's debug register. What's missing is an emulator that runs without a window and hands back a verdict. The other six consoles will follow the GBA pattern: a branch in `tests/CMakeLists.txt` and `run_test: "true"` in the CI matrix.
+The Mega Drive is next. It already has an entry point and output through the video chip's debug register; what's left is finding an emulator that runs without a window and returns a verdict. After it, the other six consoles follow the GBA pattern: a branch in `tests/CMakeLists.txt` and `run_test: "true"` in the CI matrix.
